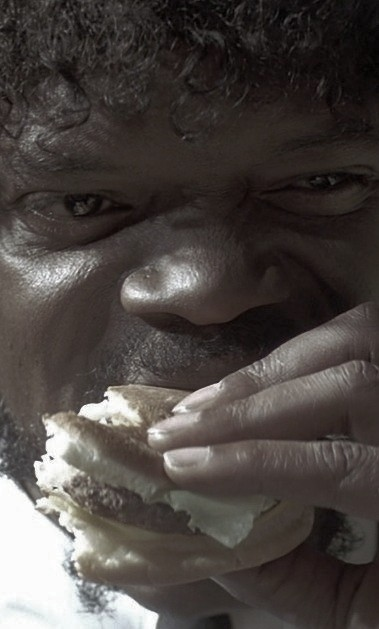
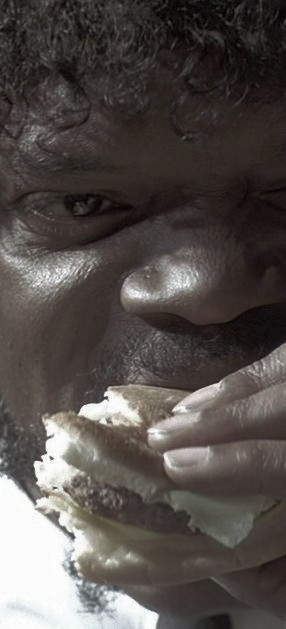
fixed cover pic

diff --git a/_site/css/main.css b/_site/css/main.css
@@ -1451,7 +1451,9 @@ pre code {
 .cover-card {
   color: rgba(0, 0, 0, 0.87);
   padding: 0 30px;
-  background-image: url("/img/SLJ2.jpg"); }
+  background-image: url("/img/SLJ2.jpg");
+  background-repeat: no-repeat;
+  background-size: 100%; }
   .cover-card .avatar {
     border-radius: 50%;
     width: 100px;

diff --git a/_sass/pages/_layout.scss b/_sass/pages/_layout.scss
@@ -21,6 +21,8 @@
   color: $text-color;
   padding: 0 30px;
   background-image: url("/img/SLJ2.jpg");
+  background-repeat: no-repeat;
+  background-size: 100%;
   .avatar {
     border-radius: 50%;
     width: 100px;
